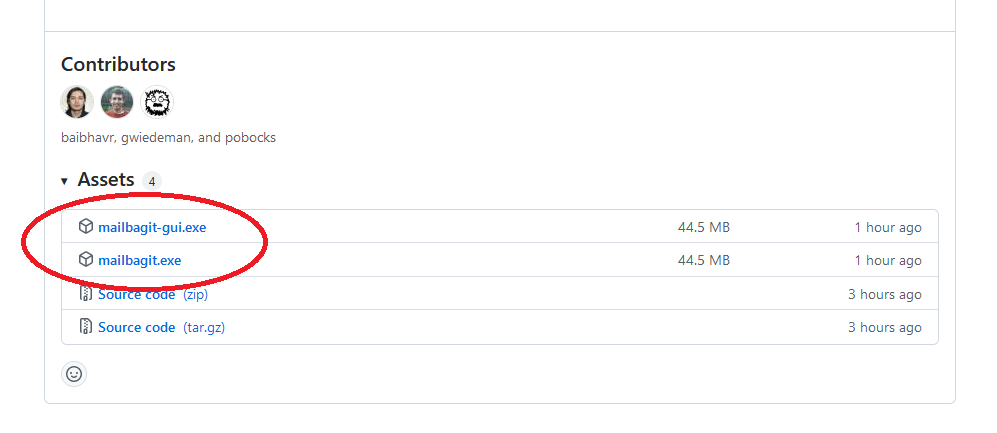
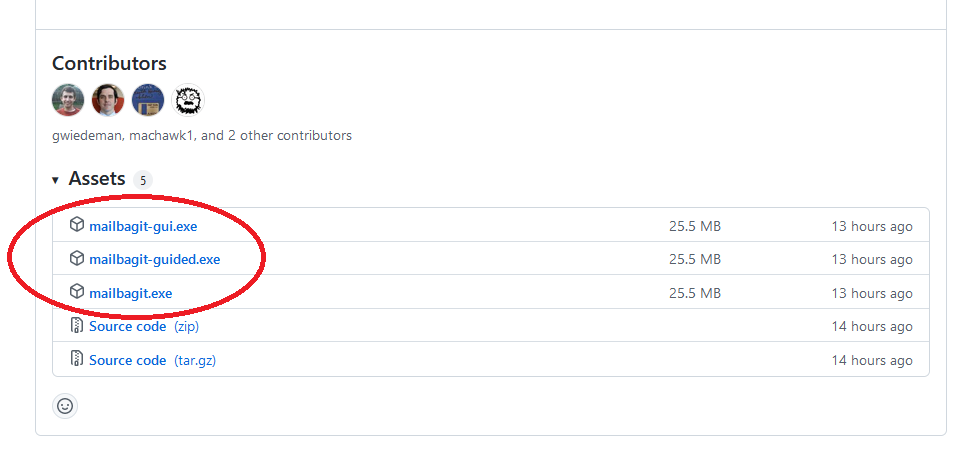
bumped version and added .exe image that includes mailbagit-guided

diff --git a/setup.py b/setup.py
@@ -6,7 +6,7 @@ with open("README.md", "r", encoding="utf-8") as fh:
 
 setuptools.setup(
     name="mailbagit",
-    version="0.4.0",
+    version="0.4.1",
     author="Gregory Wiedeman",
     author_email="gwiedeman@albany.edu",
     description="A tool for preserving email with multiple masters.",

diff --git a/mailbagit/__init__.py b/mailbagit/__init__.py
@@ -1,7 +1,7 @@
 # __init__.py
 
 # Version of the mailbagit package
-__version__ = "0.4.0"
+__version__ = "0.4.1"
 
 import os
 from pathlib import Path
